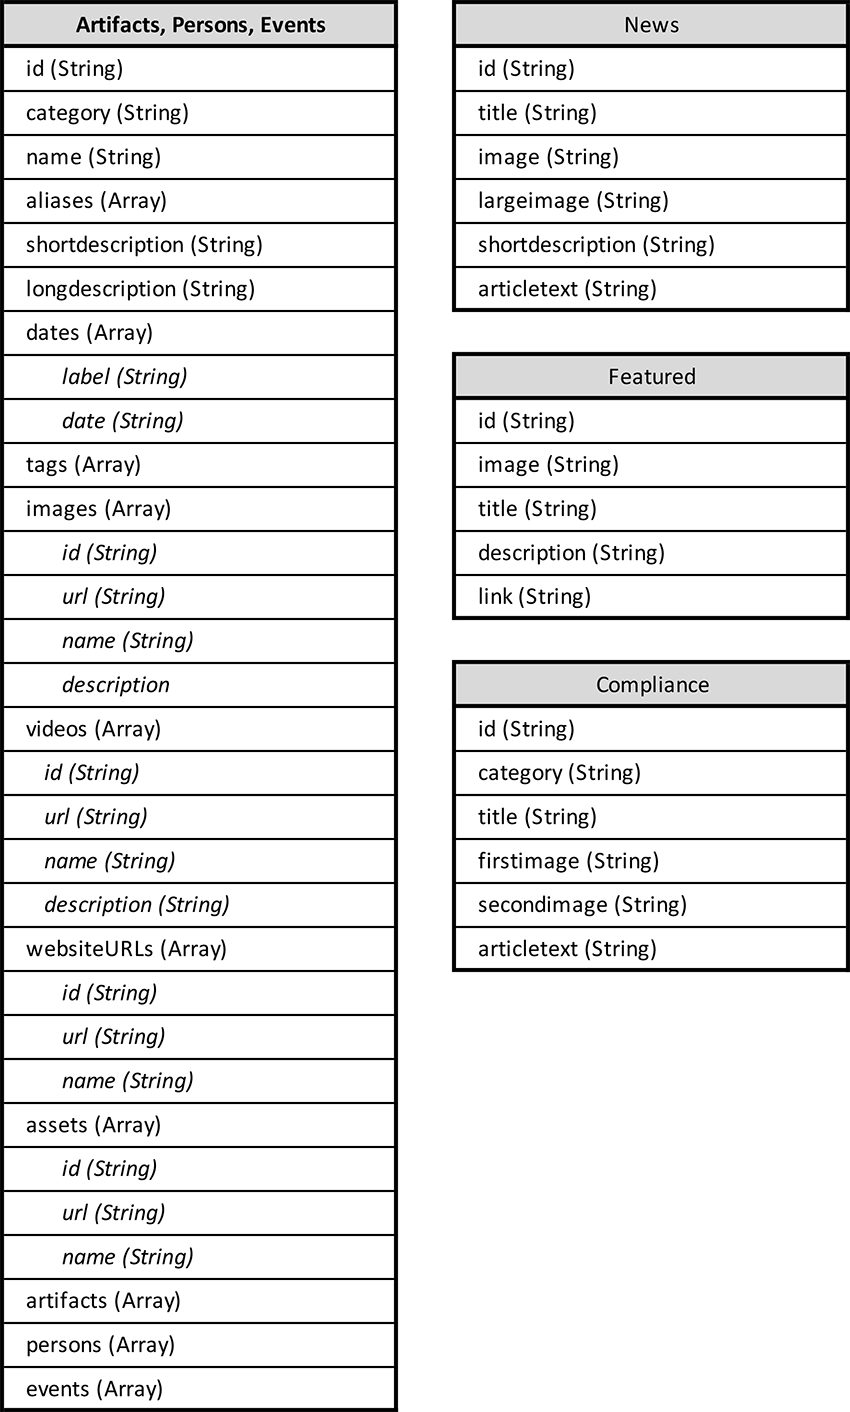
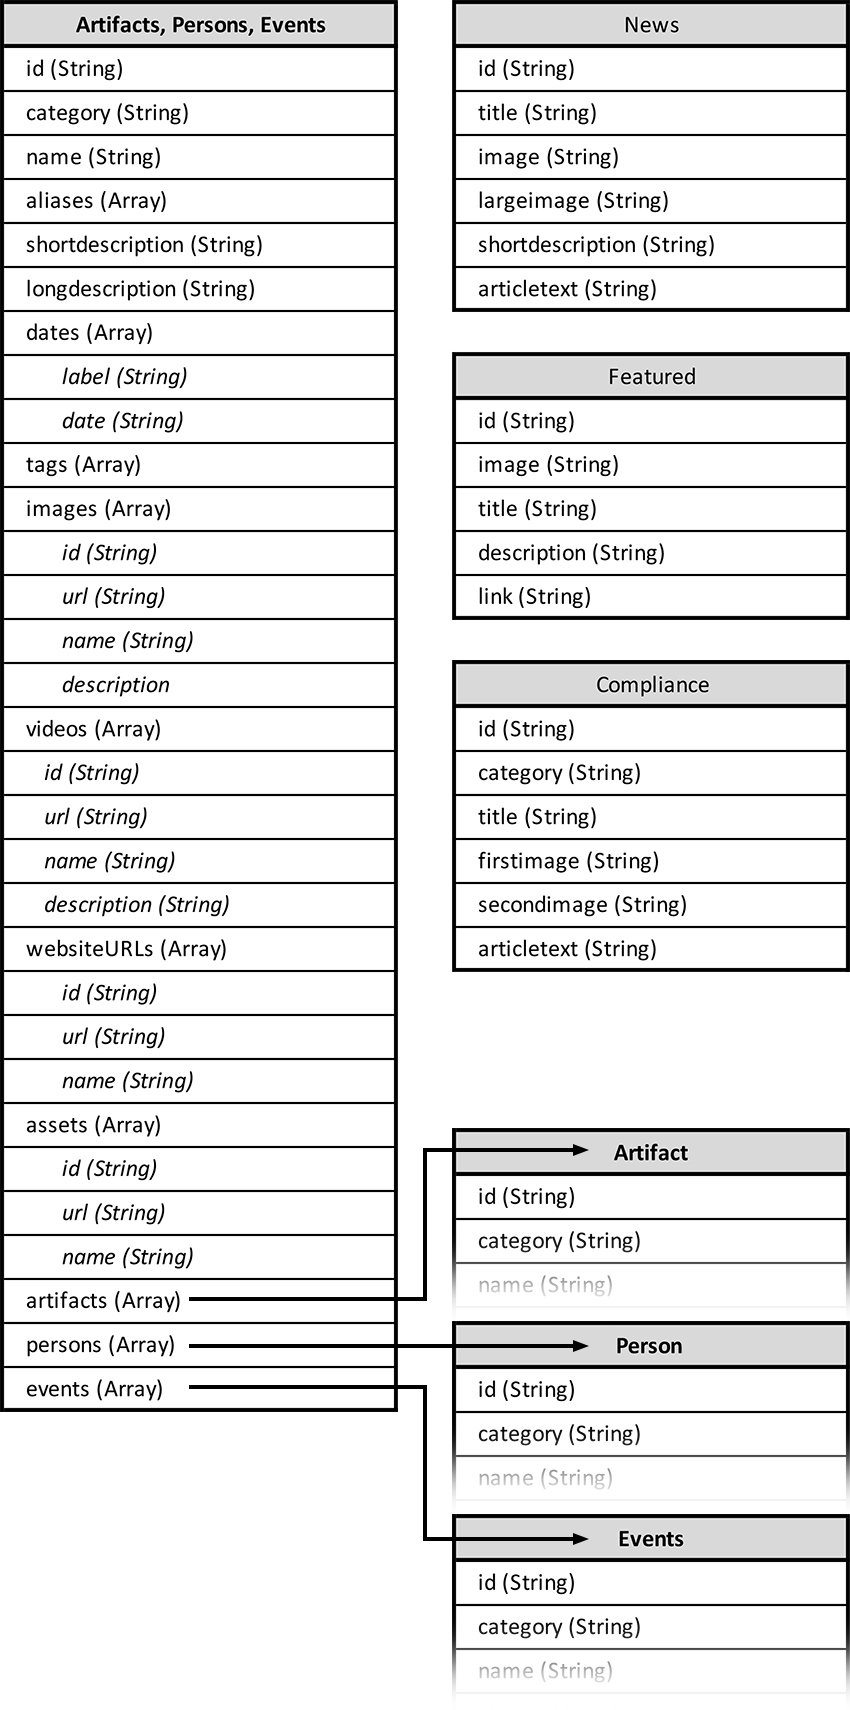
Added structure diagram corrected data model diagram

Changed region(s): [[0.0, 0.0, 1.0, 1.0]]

diff --git a/README.md b/README.md
@@ -81,7 +81,9 @@ Diese Seiten dienen zur Information.
 
 ## 4. Die Struktur von ADAM
 
-### 4.1 _API-Server_ auf Heroku unter Verwendung von MongoDB mit Schnittstellen für...
+![ADAM - Struktur](documentation/assets/structure.png)
+
+### 4.1 API-Server auf Heroku zwischen dem Web-Frontend und MongoDB mit Schnittstellen für...
 
 - Ansehen/holen bestehender Einträge (GET)
     - `/artifacts`
@@ -116,7 +118,7 @@ Diese Seiten dienen zur Information.
 
 Für mehr Details zur API siehe Dokumentation weiter unten.
 
-### 4.2 _Öffentlicher Bereich im Web-Frontend_ und fünf Arten von Ansichten:
+### 4.2 Öffentlicher Bereich im Web-Frontend und fünf Arten von Ansichten:
 
 ![ADAM - Data Model](documentation/assets/sitemap-public.png)
 
